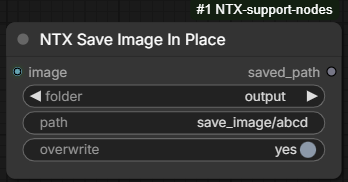
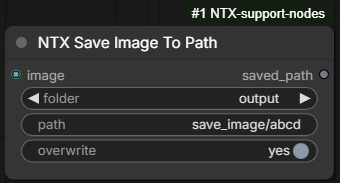
Added Save/Load Image/Video in Place

diff --git a/py/video.py b/py/video.py
@@ -32,12 +32,12 @@ def saved_result_for(file_path: Path) -> ui.SavedResult | None:
 
 # ===== NODES : VIDEO ==========================================================================================================================
 
-class SaveVideoInPlace(io.ComfyNode):
+class SaveVideoToPath(io.ComfyNode):
     @classmethod
     def define_schema(cls):
         return io.Schema(
-            node_id=f"{ADDON_PREFIX}SaveVideoInPlace",
-            display_name=f"{ADDON_PREFIX} Save Video In Place",
+            node_id=f"{ADDON_PREFIX}SaveVideoToPath",
+            display_name=f"{ADDON_PREFIX} Save Video To Path",
             description="Save the frames (and audio) as a video exactly at the given path, no progressive counter. The extension follows the selected format. A relative path is resolved against the selected ComfyUI folder.",
             category=f"{ADDON_CATEGORY}/video",
             is_output_node=True,
@@ -69,7 +69,7 @@ class SaveVideoInPlace(io.ComfyNode):
     @classmethod
     def execute(cls, images, fps: float, folder: str, path: str, format, overwrite: bool, audio=None):
 
-        logger.node_name("SaveVideoInPlace")
+        logger.node_name("SaveVideoToPath")
 
         # unpack the container / codec selection as the native Save Video node does
         if isinstance(format, dict):
@@ -91,7 +91,7 @@ class SaveVideoInPlace(io.ComfyNode):
         if file_path.exists() and not overwrite:
             msg = f"file already exists, save skipped : {file_path}"
             logger.warning(msg)
-            notify_user("warn", "Save Video In Place", msg)
+            notify_user("warn", "Save Video To Path", msg)
             return io.NodeOutput(saved_path)
 
         # embed prompt and workflow as the native Save Video node does
@@ -121,12 +121,12 @@ class SaveVideoInPlace(io.ComfyNode):
             return io.NodeOutput(saved_path, ui=ui.PreviewVideo([result]))
         return io.NodeOutput(saved_path)
 
-class LoadVideoFromPlace(io.ComfyNode):
+class LoadVideoFromPath(io.ComfyNode):
     @classmethod
     def define_schema(cls):
         return io.Schema(
-            node_id=f"{ADDON_PREFIX}LoadVideoFromPlace",
-            display_name=f"{ADDON_PREFIX} Load Video From Place",
+            node_id=f"{ADDON_PREFIX}LoadVideoFromPath",
+            display_name=f"{ADDON_PREFIX} Load Video From Path",
             description="Load a video from the given path and return its frames, audio and frame rate (.mp4, .mkv and .webm are tried in this order when no extension is given). A relative path is resolved against the selected ComfyUI folder. The node runs again only when the path or the file on disk (size / modification time) changes.",
             category=f"{ADDON_CATEGORY}/video",
             inputs=[
@@ -175,7 +175,7 @@ class LoadVideoFromPlace(io.ComfyNode):
     @classmethod
     def execute(cls, folder: str, path: str, suppress_errors: bool):
 
-        logger.node_name("LoadVideoFromPlace")
+        logger.node_name("LoadVideoFromPath")
 
         file_path = cls.resolve_file(folder, path)
 
@@ -183,7 +183,7 @@ class LoadVideoFromPlace(io.ComfyNode):
             msg = f"File not found: {file_path if file_path is not None else path}"
             logger.warning(msg)
             if not suppress_errors:
-                notify_user("warn", "Load Video From Place", msg)
+                notify_user("warn", "Load Video From Path", msg)
             return io.NodeOutput(None, None, None, False)
 
         components = InputImpl.VideoFromFile(str(file_path)).get_components()
@@ -197,6 +197,6 @@ class LoadVideoFromPlace(io.ComfyNode):
 
 def get_nodes_list() -> list[type[io.ComfyNode]]:
     return [
-        SaveVideoInPlace,
-        LoadVideoFromPlace,
+        SaveVideoToPath,
+        LoadVideoFromPath,
     ]

diff --git a/py/images.py b/py/images.py
@@ -411,12 +411,12 @@ class SaveMultipleImages(io.ComfyNode):
         else:
             return io.NodeOutput(output_image_grid, list_saved_images)
 
-class SaveImageInPlace(io.ComfyNode):
+class SaveImageToPath(io.ComfyNode):
     @classmethod
     def define_schema(cls):
         return io.Schema(
-            node_id=f"{ADDON_PREFIX}SaveImageInPlace",
-            display_name=f"{ADDON_PREFIX} Save Image In Place",
+            node_id=f"{ADDON_PREFIX}SaveImageToPath",
+            display_name=f"{ADDON_PREFIX} Save Image To Path",
             description="Save the image exactly at the given path (always as PNG, no progressive counter). A relative path is resolved against the selected ComfyUI folder.",
             category=f"{ADDON_CATEGORY}/images",
             is_output_node=True,
@@ -435,7 +435,7 @@ class SaveImageInPlace(io.ComfyNode):
     @classmethod
     def execute(cls, image, folder: str, path: str, overwrite: bool):
 
-        logger.node_name("SaveImageInPlace")
+        logger.node_name("SaveImageToPath")
 
         # resolve the target file: the extension is always .png
         file_path = resolve_path(path, get_comfy_folder(folder)).with_suffix(".png").resolve()
@@ -444,7 +444,7 @@ class SaveImageInPlace(io.ComfyNode):
         if file_path.exists() and not overwrite:
             msg = f"file already exists, save skipped : {file_path}"
             logger.warning(msg)
-            notify_user("warn", "Save Image In Place", msg)
+            notify_user("warn", "Save Image To Path", msg)
             return io.NodeOutput(saved_path)
 
         if image.shape[0] > 1:
@@ -468,12 +468,12 @@ class SaveImageInPlace(io.ComfyNode):
 
         return io.NodeOutput(saved_path, ui=ui.PreviewImage(image[0:1], cls=cls))
 
-class LoadImageFromPlace(io.ComfyNode):
+class LoadImageFromPath(io.ComfyNode):
     @classmethod
     def define_schema(cls):
         return io.Schema(
-            node_id=f"{ADDON_PREFIX}LoadImageFromPlace",
-            display_name=f"{ADDON_PREFIX} Load Image From Place",
+            node_id=f"{ADDON_PREFIX}LoadImageFromPath",
+            display_name=f"{ADDON_PREFIX} Load Image From Path",
             description="Load an image from the given path (.png is assumed when no extension is given). A relative path is resolved against the selected ComfyUI folder. The node runs again only when the path or the file on disk (size / modification time) changes.",
             category=f"{ADDON_CATEGORY}/images",
             inputs=[
@@ -515,7 +515,7 @@ class LoadImageFromPlace(io.ComfyNode):
     @classmethod
     def execute(cls, folder: str, path: str, suppress_errors: bool):
 
-        logger.node_name("LoadImageFromPlace")
+        logger.node_name("LoadImageFromPath")
 
         file_path = cls.resolve_file(folder, path)
 
@@ -523,7 +523,7 @@ class LoadImageFromPlace(io.ComfyNode):
             msg = f"File not found: {file_path if file_path is not None else path}"
             logger.warning(msg)
             if not suppress_errors:
-                notify_user("warn", "Load Image From Place", msg)
+                notify_user("warn", "Load Image From Path", msg)
             return io.NodeOutput(None, False)
 
         img = node_helpers.pillow(Image.open, file_path)
@@ -1028,8 +1028,8 @@ class ImagesGrid(io.ComfyNode):
 def get_nodes_list() -> list[type[io.ComfyNode]]:
     return [
         SaveMultipleImages,
-        SaveImageInPlace,
-        LoadImageFromPlace,
+        SaveImageToPath,
+        LoadImageFromPath,
         ImageSize,
         ImageResolution,
         ExtractImageFromBatch,

diff --git a/README.md b/README.md
@@ -1764,9 +1764,9 @@ node:
 
 ---
 
-## SaveImageInPlace
+## SaveImageToPath
 
-![SaveImageInPlace node](images/SaveImageInPlace.png)
+![SaveImageToPath node](images/SaveImageToPath.png)
 
 Saves an image **exactly where the path says**, with no progressive counter and no
 date/prefix decoration: the file is always named after `path` and always written as a
@@ -1801,14 +1801,14 @@ image, like *Save Image*.
 
 ---
 
-## LoadImageFromPlace
+## LoadImageFromPath
 
-![LoadImageFromPlace node](images/LoadImageFromPlace.png)
+![LoadImageFromPath node](images/LoadImageFromPath.png)
 
 Loads an image from an **arbitrary path** — typed, not picked from the input folder list —
 and returns it as an IMAGE. A relative path is resolved against the ComfyUI folder chosen in
 `folder`; an absolute path is used as is, and `folder` is ignored. A path **without
-extension is assumed to be a `.png`**, so the node pairs naturally with **SaveImageInPlace**
+extension is assumed to be a `.png`**, so the node pairs naturally with **SaveImageToPath**
 (same `folder` and `path` on both sides); any explicit extension is kept and every format
 PIL can open is accepted. EXIF orientation is applied and the image is converted to RGB;
 only the first frame of an animated file is returned.
@@ -1842,11 +1842,11 @@ toast `File not found: <resolved path>` is raised as well.
 
 ---
 
-## SaveVideoInPlace
+## SaveVideoToPath
 
-![SaveVideoInPlace node](images/SaveVideoInPlace.png)
+![SaveVideoToPath node](images/SaveVideoToPath.png)
 
-The video counterpart of **SaveImageInPlace**: encodes a batch of frames (plus an optional
+The video counterpart of **SaveImageToPath**: encodes a batch of frames (plus an optional
 audio track) into a video file written **exactly where the path says**, with no progressive
 counter. A relative path is resolved against the ComfyUI folder chosen in `folder`; an
 absolute path is used as is, and `folder` is ignored. Missing intermediate directories are
@@ -1883,18 +1883,18 @@ not (the frontend can only play files under those folders).
 
 ---
 
-## LoadVideoFromPlace
+## LoadVideoFromPath
 
-![LoadVideoFromPlace node](images/LoadVideoFromPlace.png)
+![LoadVideoFromPath node](images/LoadVideoFromPath.png)
 
-The video counterpart of **LoadImageFromPlace**: loads a video from an **arbitrary path** and
+The video counterpart of **LoadImageFromPath**: loads a video from an **arbitrary path** and
 returns its frames, audio track and frame rate — the same three values *Get Video
 Components* extracts. A relative path is resolved against the ComfyUI folder chosen in
 `folder`; an absolute path is used as is, and `folder` is ignored.
 
 A path **without extension** is completed by trying `.mp4`, `.mkv` and `.webm` **in this
 order**, and the first existing file wins — so the node pairs naturally with
-**SaveVideoInPlace** (same `folder` and `path` on both sides, whatever container was
+**SaveVideoToPath** (same `folder` and `path` on both sides, whatever container was
 picked). An explicit extension is kept as typed, and any container PyAV can open is
 accepted.
 
